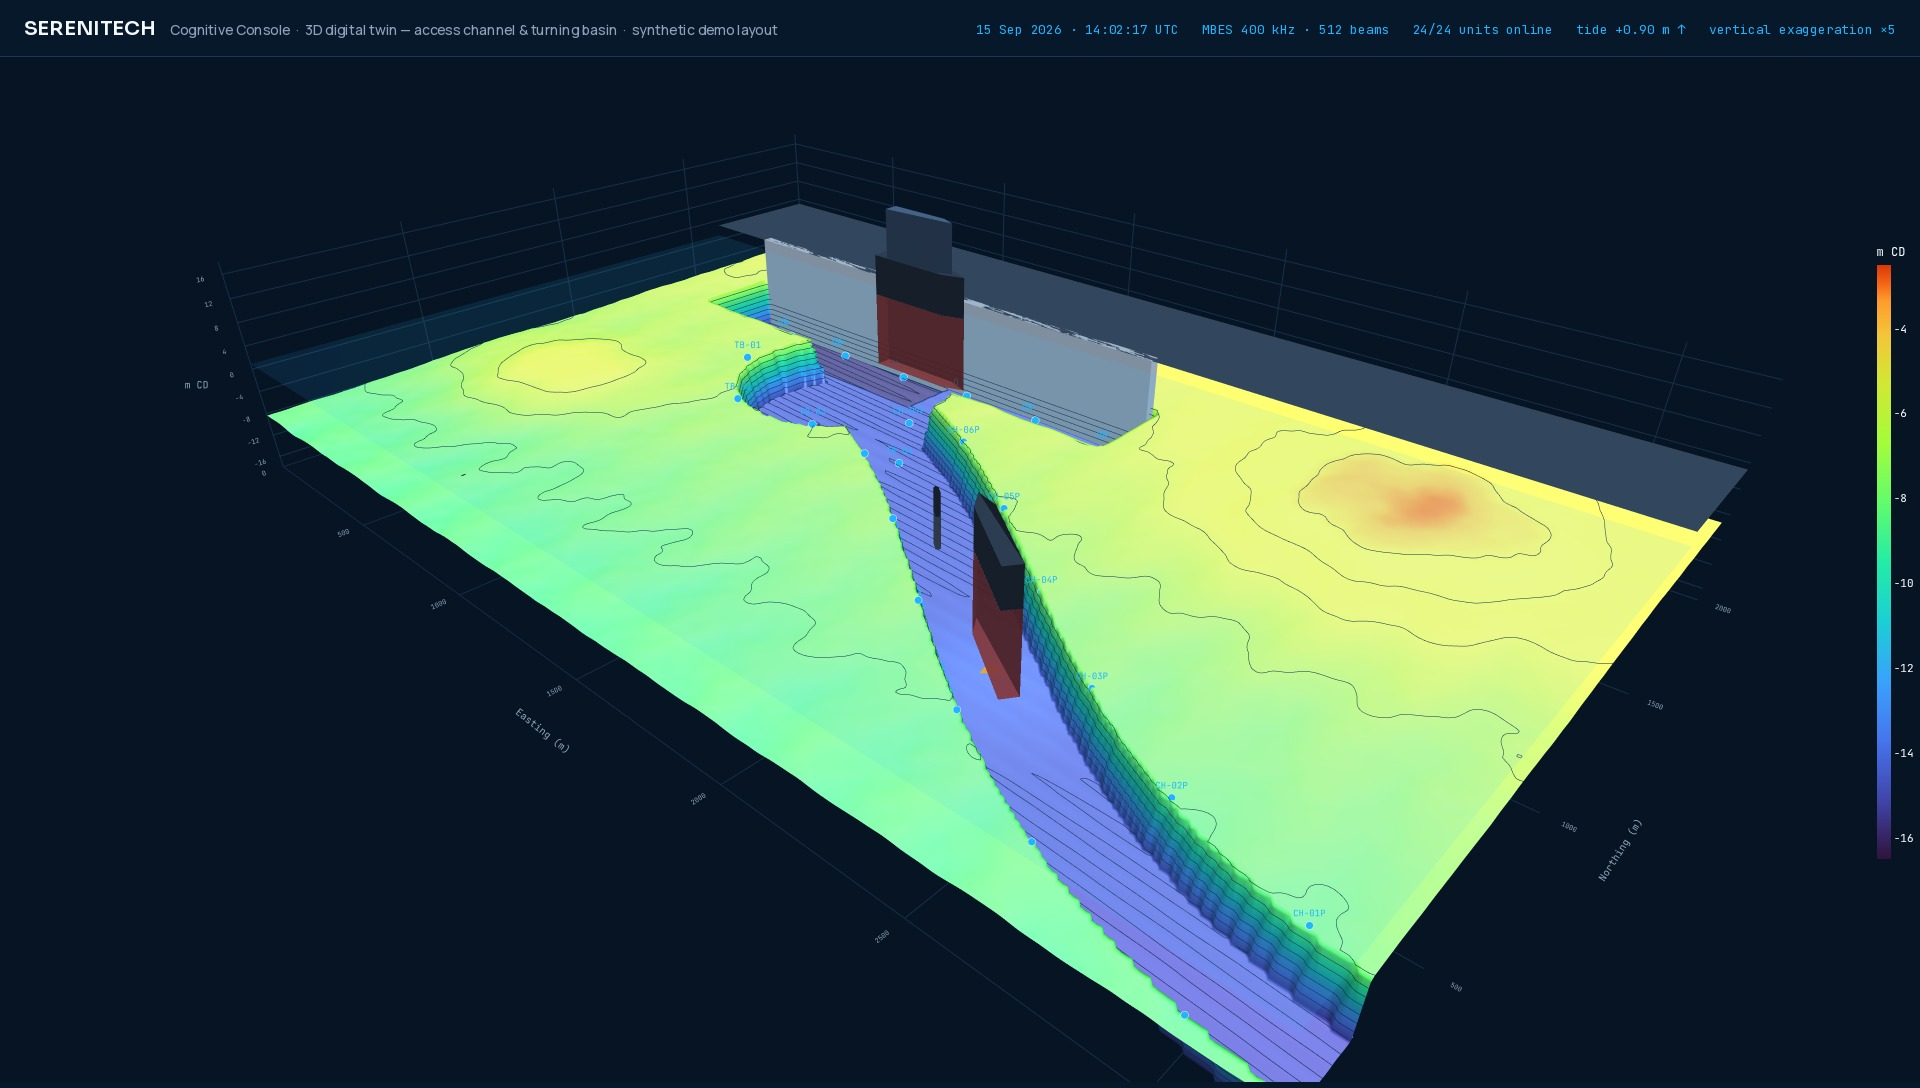
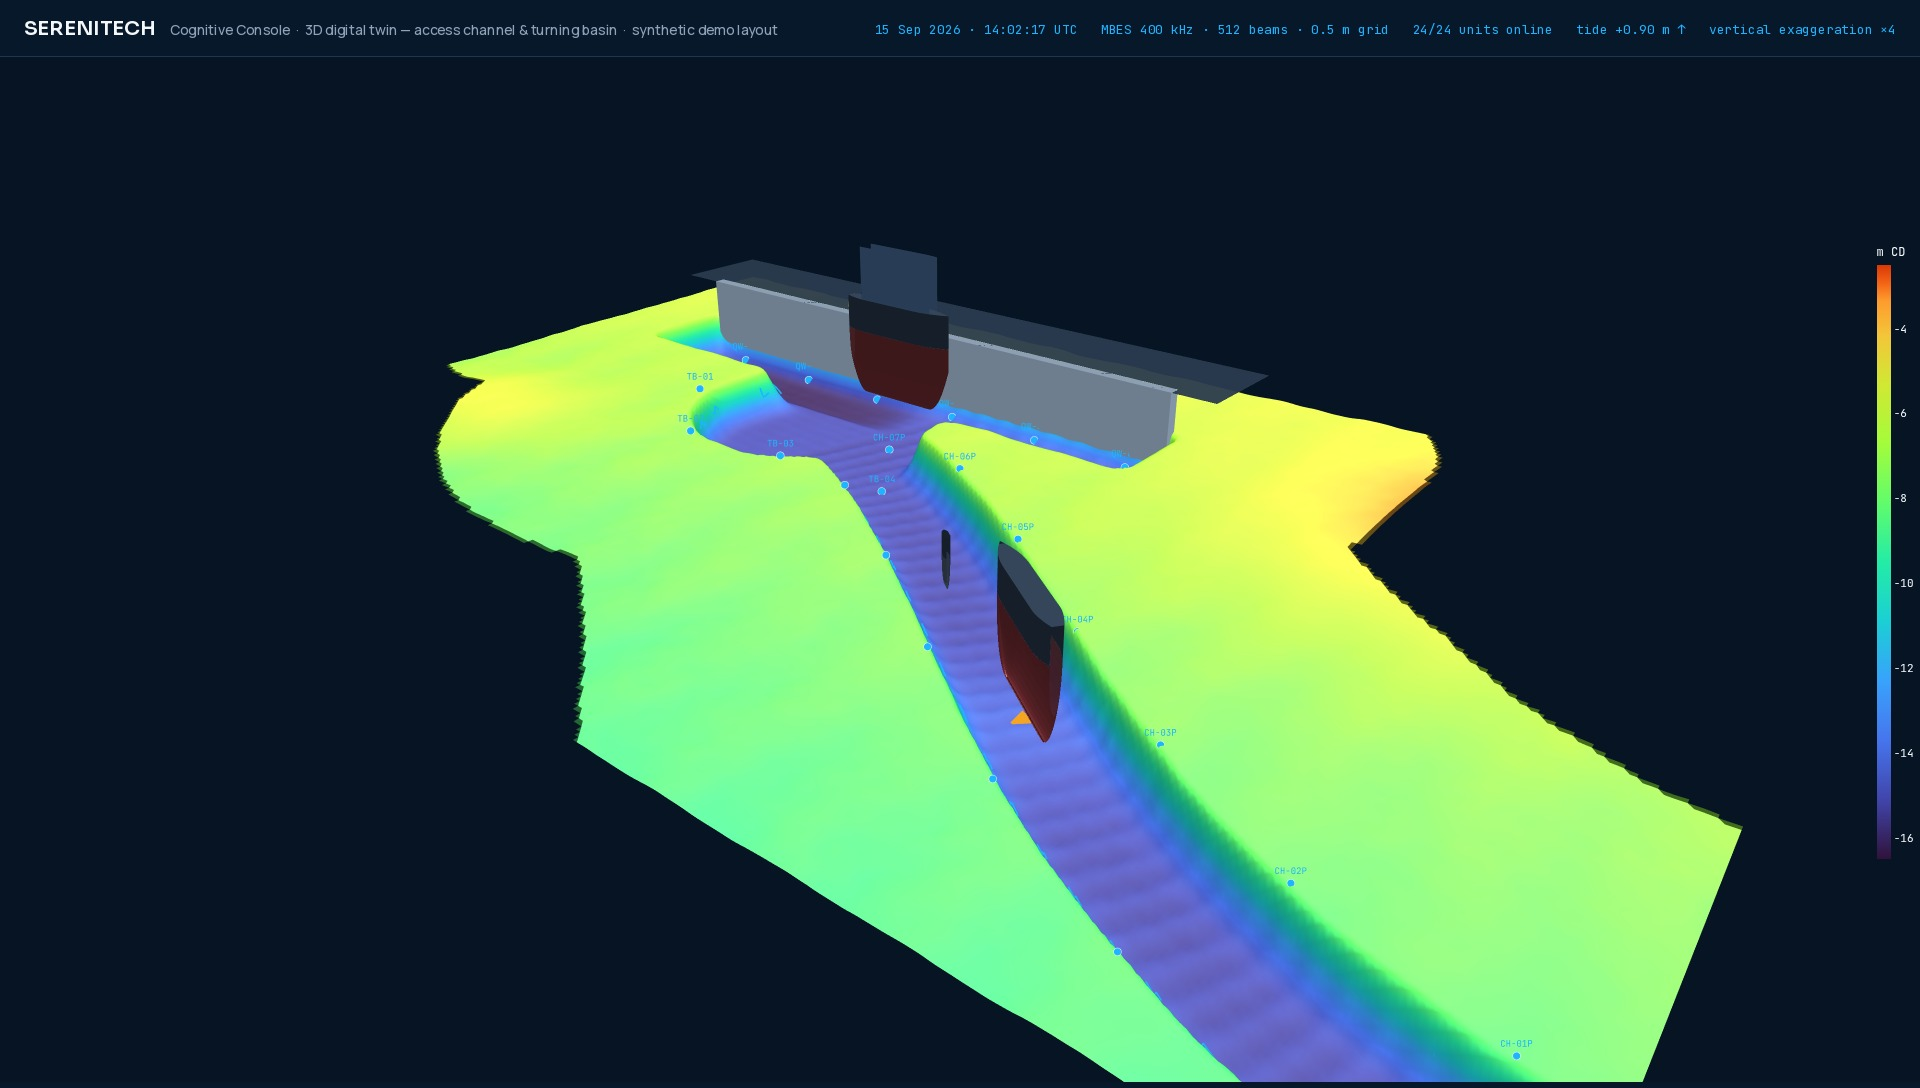
Semi-transparent copy panels; organic channel bathymetry in the twin screens
- glass-panel: abyss 56% + blur 22px so the picture shows through behind the text
- Twin console + 3D view re-rendered from an organic bed model: soft-min merge of natural bed and
  dredged template, wandering toe, rounded slumped banks, sand waves and multibeam texture,
  irregular survey-coverage boundary, parametric hull forms, no axis box, exaggeration x4;
  shoal apex calibrated to -14.48 m CD at KP 1.05 (numerics and profile agree: UKC 2.68 m)

Claude-Session: https://claude.ai/code/session_01Tmpv7TejaTmCohVkR2vdoj

diff --git a/src/styles.css b/src/styles.css
@@ -160,11 +160,11 @@
 
 /* Translucent text box used over the field images, so the pictures stay fully visible. */
 @utility glass-panel {
-  background-color: color-mix(in oklab, var(--color-abyss) 90%, transparent);
+  background-color: color-mix(in oklab, var(--color-abyss) 56%, transparent);
   border: 1px solid color-mix(in oklab, var(--color-cyan) 22%, var(--color-ocean));
   border-radius: var(--radius-lg);
-  backdrop-filter: blur(18px);
-  -webkit-backdrop-filter: blur(18px);
+  backdrop-filter: blur(22px) saturate(0.9);
+  -webkit-backdrop-filter: blur(22px) saturate(0.9);
   box-shadow: 0 30px 80px -40px color-mix(in oklab, var(--color-abyss) 95%, transparent);
 }
 

diff --git a/src/components/site/TwinConsole.tsx b/src/components/site/TwinConsole.tsx
@@ -34,9 +34,9 @@ export function TwinConsole() {
 
   // Unit positions (percent of the image) — three cognitive units on the 3D view
   const nodes = [
-    { x: 27.4, y: 54.8 },
-    { x: 33.6, y: 43.1 },
-    { x: 43.5, y: 60.4 },
+    { x: 31.2, y: 40.6 },
+    { x: 36.8, y: 47.5 },
+    { x: 43.0, y: 59.8 },
   ];
 
   return (
